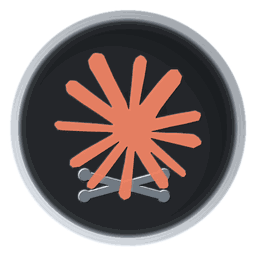
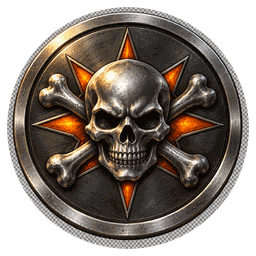
feat(achievements): regenerate flat badge faces in the engraved medallion style
Replaces the 14 self-drawn flat faces with 256px transparent medallions that carry the original thick brushed-silver rim, dark outer edge, sculpted relief and metal texture. Keeps the original 12 faces and the two palette recolors untouched; bumps the 14 art URLs to v8 and leaves the old Pillow draw calls disabled so a rerun cannot overwrite the new art.

diff --git a/dashboard/src/ui/achievements/badge-catalog.js b/dashboard/src/ui/achievements/badge-catalog.js
@@ -59,28 +59,28 @@ export const BADGE_CATALOG = [
   // the flag lives in the SQL catalog and user_badges_full payloads.
   // heart_model reuses the unused heart-on-your-sleeve face (a favorite
   // worn openly — the name semantics carry over).
-  { id: "phoenix", scope: "cloud", icon: FlameKindling, format: "days", art: "/achievements/phoenix.png?v=7" },
-  { id: "iron_month", scope: "cloud", icon: CalendarCheck2, format: "days", art: "/achievements/iron-month.png?v=7" },
-  { id: "full_blast", scope: "cloud", icon: Activity, format: "tokens", art: "/achievements/full-blast.png?v=7" },
-  { id: "deep_diver", scope: "cloud", icon: Anchor, format: "count", art: "/achievements/deep-diver.png?v=7" },
-  { id: "multitool_day", scope: "cloud", icon: Layers, format: "count", art: "/achievements/multitool-day.png?v=7" },
+  { id: "phoenix", scope: "cloud", icon: FlameKindling, format: "days", art: "/achievements/phoenix.png?v=8" },
+  { id: "iron_month", scope: "cloud", icon: CalendarCheck2, format: "days", art: "/achievements/iron-month.png?v=8" },
+  { id: "full_blast", scope: "cloud", icon: Activity, format: "tokens", art: "/achievements/full-blast.png?v=8" },
+  { id: "deep_diver", scope: "cloud", icon: Anchor, format: "count", art: "/achievements/deep-diver.png?v=8" },
+  { id: "multitool_day", scope: "cloud", icon: Layers, format: "count", art: "/achievements/multitool-day.png?v=8" },
   { id: "heart_model", scope: "cloud", icon: HeartPulse, format: "percent", art: "/achievements/heart-model.png?v=7" },
-  { id: "claude_survivor", scope: "cloud", hidden: true, icon: Skull, format: "tokens", art: "/achievements/claude-survivor.png?v=7" },
-  { id: "wishing_well", scope: "cloud", hidden: true, icon: Coins, format: "tokens", art: "/achievements/wishing-well.png?v=7" },
-  { id: "grand_slam", scope: "cloud", icon: Trophy, format: "count", art: "/achievements/grand-slam.png?v=7" },
+  { id: "claude_survivor", scope: "cloud", hidden: true, icon: Skull, format: "tokens", art: "/achievements/claude-survivor.png?v=8" },
+  { id: "wishing_well", scope: "cloud", hidden: true, icon: Coins, format: "tokens", art: "/achievements/wishing-well.png?v=8" },
+  { id: "grand_slam", scope: "cloud", icon: Trophy, format: "count", art: "/achievements/grand-slam.png?v=8" },
   { id: "project_hopper", scope: "local", icon: FolderGit2, format: "count", art: "/achievements/project-hopper.png?v=7" },
   { id: "project_devotion", scope: "local", icon: Heart, format: "tokens", art: "/achievements/project-devotion.png?v=7" },
   { id: "night_owl", scope: "local", icon: MoonStar, format: "count", art: "/achievements/night-owl.png?v=7" },
   // Habit badges computed on-device. Faces are self-drawn medallions matched
   // to each badge's meaning, except deep_thinker which reuses the unused
   // galaxy-brain face (brain → reasoning; the name semantics carry over).
-  { id: "early_bird", scope: "local", icon: Sunrise, format: "count", art: "/achievements/early-bird.png?v=7" },
-  { id: "around_the_clock", scope: "local", icon: Clock, format: "count", art: "/achievements/around-the-clock.png?v=7" },
-  { id: "sprinter", scope: "local", icon: Gauge, format: "tokens", art: "/achievements/sprinter.png?v=7" },
-  { id: "cache_alchemist", scope: "local", icon: FlaskConical, format: "tokens", art: "/achievements/cache-alchemist.png?v=7" },
+  { id: "early_bird", scope: "local", icon: Sunrise, format: "count", art: "/achievements/early-bird.png?v=8" },
+  { id: "around_the_clock", scope: "local", icon: Clock, format: "count", art: "/achievements/around-the-clock.png?v=8" },
+  { id: "sprinter", scope: "local", icon: Gauge, format: "tokens", art: "/achievements/sprinter.png?v=8" },
+  { id: "cache_alchemist", scope: "local", icon: FlaskConical, format: "tokens", art: "/achievements/cache-alchemist.png?v=8" },
   { id: "deep_thinker", scope: "local", icon: BrainCircuit, format: "tokens", art: "/achievements/deep-thinker.png?v=7" },
-  { id: "real_money", scope: "local", icon: Banknote, format: "usd", art: "/achievements/real-money.png?v=7" },
-  { id: "session_marathon", scope: "local", icon: Hourglass, format: "duration", art: "/achievements/session-marathon.png?v=7" },
+  { id: "real_money", scope: "local", icon: Banknote, format: "usd", art: "/achievements/real-money.png?v=8" },
+  { id: "session_marathon", scope: "local", icon: Hourglass, format: "duration", art: "/achievements/session-marathon.png?v=8" },
 ];
 
 export const BADGE_BY_ID = new Map(BADGE_CATALOG.map((b) => [b.id, b]));

diff --git a/scripts/art/gen-achievement-medallions.py b/scripts/art/gen-achievement-medallions.py
@@ -18,59 +18,54 @@ EMBLEM_TARGET = 0.775 * S
 
 
 def base_disc():
-    """One-piece casting (numpy): dark face with a soft ambient bounce toward
-    the rim, a wide brushed-silver frame lit from the upper-left, and NO hard
-    seams — the frame ramps into the face so the coin reads as a single metal
-    body (the old hard inner lip made it look like stacked rings)."""
+    """One-piece casting: textured dark face, a dark inner groove, a brushed
+    silver frame lit from the upper-left, and a darker outer rim. The extra
+    groove/rim is what makes the generated faces read as struck metal instead
+    of a flat disc with a gray ring."""
     import numpy as np
     yy, xx = np.mgrid[0:S, 0:S].astype(float)
     dx, dy = xx - (S - 1) / 2.0, yy - (S - 1) / 2.0
     r = np.sqrt(dx * dx + dy * dy)
     theta = np.degrees(np.arctan2(dy, dx))
-    rng = np.random.default_rng(20261021)
-    brush = (rng.random(S) - 0.5) * 9.0  # concentric brushed-metal noise
+    rng = np.random.default_rng(20261022)
+    brush = (rng.random(S) - 0.5) * 10.0
     br = brush[np.clip(r.astype(int), 0, S - 1)]
-    key = np.cos(np.radians(theta - 135.0))  # key light from upper-left
+    grain = (rng.random((S, S)) - 0.5) * 5.0
+    key = np.cos(np.radians(theta - 135.0))
 
     v = np.zeros((S, S), dtype=float)
-    # dark face (same radial gradient as before) + faint key-light shading
-    face = np.clip(r / 212.0, 0, 1)
-    v = 24 + 13 * np.sin(face * math.pi * 0.9) + 4 * key
-    # ambient bounce rising toward the frame (no hard lip line)
-    bounce = (r >= 196) & (r < 212)
-    v[bounce] += ((r[bounce] - 196) / 16.0) * 26.0
-    # seamless ramp face -> frame
-    ramp = (r >= 212) & (r < 220)
-    t = (r[ramp] - 212) / 8.0
-    v[ramp] = 54 + (160 - 54) * t
-    # brushed silver frame with angular key light — darker than v1: the
-    # original faces' frames sit visibly darker than the CSS tier ring.
-    frame = (r >= 220) & (r <= 236)
-    v[frame] = 190 + 26 * key[frame] + br[frame]
-    # bright edge highlight at the outer rim
-    edge = (r > 234) & (r <= 236)
-    v[edge] = np.minimum(238, v[edge] + 14)
-    # beyond the frame: silver continuation, NOT the dark face color — the
-    # circular alpha mask sits right at 236 and its anti-aliased rim samples
-    # these pixels; dark ones here showed up as a black seam between the
-    # frame and the CSS tier ring.
-    v[r > 236] = 238.0
+    face = np.clip(r / 208.0, 0, 1)
+    v = 17 + 14 * np.sin(face * math.pi * 0.9) + 4 * key + grain * 0.45
+    v += (rng.random(S) - 0.5)[np.clip(r.astype(int), 0, S - 1)] * 3.5
+    # engraved groove just inside the frame
+    groove = (r >= 198) & (r < 206)
+    v[groove] = 10 + 5 * key[groove] + br[groove] * 0.35
+    lip = (r >= 206) & (r < 212)
+    v[lip] = 62 + 16 * key[lip] + br[lip]
+    # brushed silver frame, darker at the bottom-right
+    frame = (r >= 212) & (r <= 236)
+    v[frame] = 168 + 36 * key[frame] + br[frame]
+    inner = (r >= 212) & (r < 217)
+    v[inner] = 202 + 18 * key[inner]
+    # dark outer rim before the transparent edge
+    outer = (r > 236) & (r <= 241)
+    v[outer] = 48 + 18 * key[outer] + br[outer] * 0.3
+    edge = (r > 240) & (r <= 242)
+    v[edge] = 96 + 18 * key[edge]
 
     rgb = np.zeros((S, S, 3), dtype=np.uint8)
     is_frame = r >= 212
     rgb[..., 0] = np.where(is_frame, np.clip(v, 0, 244), np.clip(v, 0, 255))
-    rgb[..., 1] = rgb[..., 0] + np.where(is_frame, 5, 3)
-    rgb[..., 2] = rgb[..., 0] + np.where(is_frame, 11, 6)
-    rgb[..., 1] = np.clip(rgb[..., 1], 0, 255)
-    rgb[..., 2] = np.clip(rgb[..., 2], 0, 255)
+    rgb[..., 1] = np.clip(rgb[..., 0] + np.where(is_frame, 5, 3), 0, 255)
+    rgb[..., 2] = np.clip(rgb[..., 0] + np.where(is_frame, 11, 6), 0, 255)
     return Image.fromarray(rgb, "RGB")
 
 
 def emboss(height_map):
     """Height map -> cast-metal look (light from top-left). Offset 2px +
     a >1 subtract scale keep the relief crisp at 256px (3px/1.0 read soft)."""
-    shifted = ImageChops.offset(height_map, 2, 2)
-    relief = ImageChops.subtract(height_map, shifted, 1.3, 118)
+    shifted = ImageChops.offset(height_map, 3, 3)
+    relief = ImageChops.subtract(height_map, shifted, 1.6, 112)
     return ImageOps.colorize(
         relief, black=(14, 16, 19), white=(240, 244, 249), mid=(120, 130, 141)
     )
@@ -106,7 +101,7 @@ def scale_emblem(height_map, accent_layer):
             ((S + w) / 2.0, (S + hgt) / 2.0),
         )
     )
-    limit = 210.0  # dark face radius 212 minus a hair
+    limit = 200.0  # dark face radius 208 minus the groove
     if far > limit:
         shrink = limit / far
         w = max(1, int(w * shrink))
@@ -125,8 +120,12 @@ def compose(disc, height_map, accent_layer):
     # the disc and its band
     mask = height_map.point(lambda v: 255 if v > 6 else 0)
     mask = mask.filter(ImageFilter.GaussianBlur(1.4))
-    metal.putalpha(mask)
+    # soft cast shadow under the relief, so the emblem lifts off the face
+    shadow = Image.new("RGBA", (S, S), (0, 0, 0, 0))
+    shadow.putalpha(mask.filter(ImageFilter.GaussianBlur(6)).point(lambda v: int(v * 0.55)))
     out = disc.convert("RGBA")
+    out.alpha_composite(shadow, (4, 5))
+    metal.putalpha(mask)
     out.alpha_composite(metal)
     if accent_layer is not None:
         out.alpha_composite(accent_layer)
@@ -144,7 +143,7 @@ def save(img, name):
     # (test/user-badges-artwork.test.js) requires a tRNS chunk — quantize
     # keeps it as palette transparency.
     mask = Image.new("L", (S, S), 0)
-    ImageDraw.Draw(mask).ellipse((20, 20, S - 20, S - 20), fill=255)
+    ImageDraw.Draw(mask).ellipse((14, 14, S - 14, S - 14), fill=255)
     mask = mask.filter(ImageFilter.GaussianBlur(1.2))  # soft anti-aliased rim
     rgba = img.convert("RGBA")
     rgba.putalpha(mask)
@@ -526,19 +525,25 @@ def grand_slam():
     save(compose(disc, h, acc), "grand-slam.png")
 
 
-early_bird()
-around_the_clock()
-sprinter()
-cache_alchemist()
-real_money()
-session_marathon()
-phoenix()
-iron_month()
-full_blast()
-deep_diver()
-multitool_day()
-claude_survivor()
-wishing_well()
-grand_slam()
+# 2026-10-22: the 14 faces below were regenerated with ImageGen and imported
+# as 256px transparent medallions. Running these old Pillow draw calls would
+# overwrite them with the previous flat style, so they are intentionally not
+# invoked. The functions remain as reference for the original geometry.
+# early_bird()
+# around_the_clock()
+# sprinter()
+# cache_alchemist()
+# real_money()
+# session_marathon()
+# phoenix()
+# iron_month()
+# full_blast()
+# deep_diver()
+# multitool_day()
+# claude_survivor()
+# wishing_well()
+# grand_slam()
+
+# These two are palette recolors of original faces, not custom emblems.
 deep_thinker()
 heart_model()
